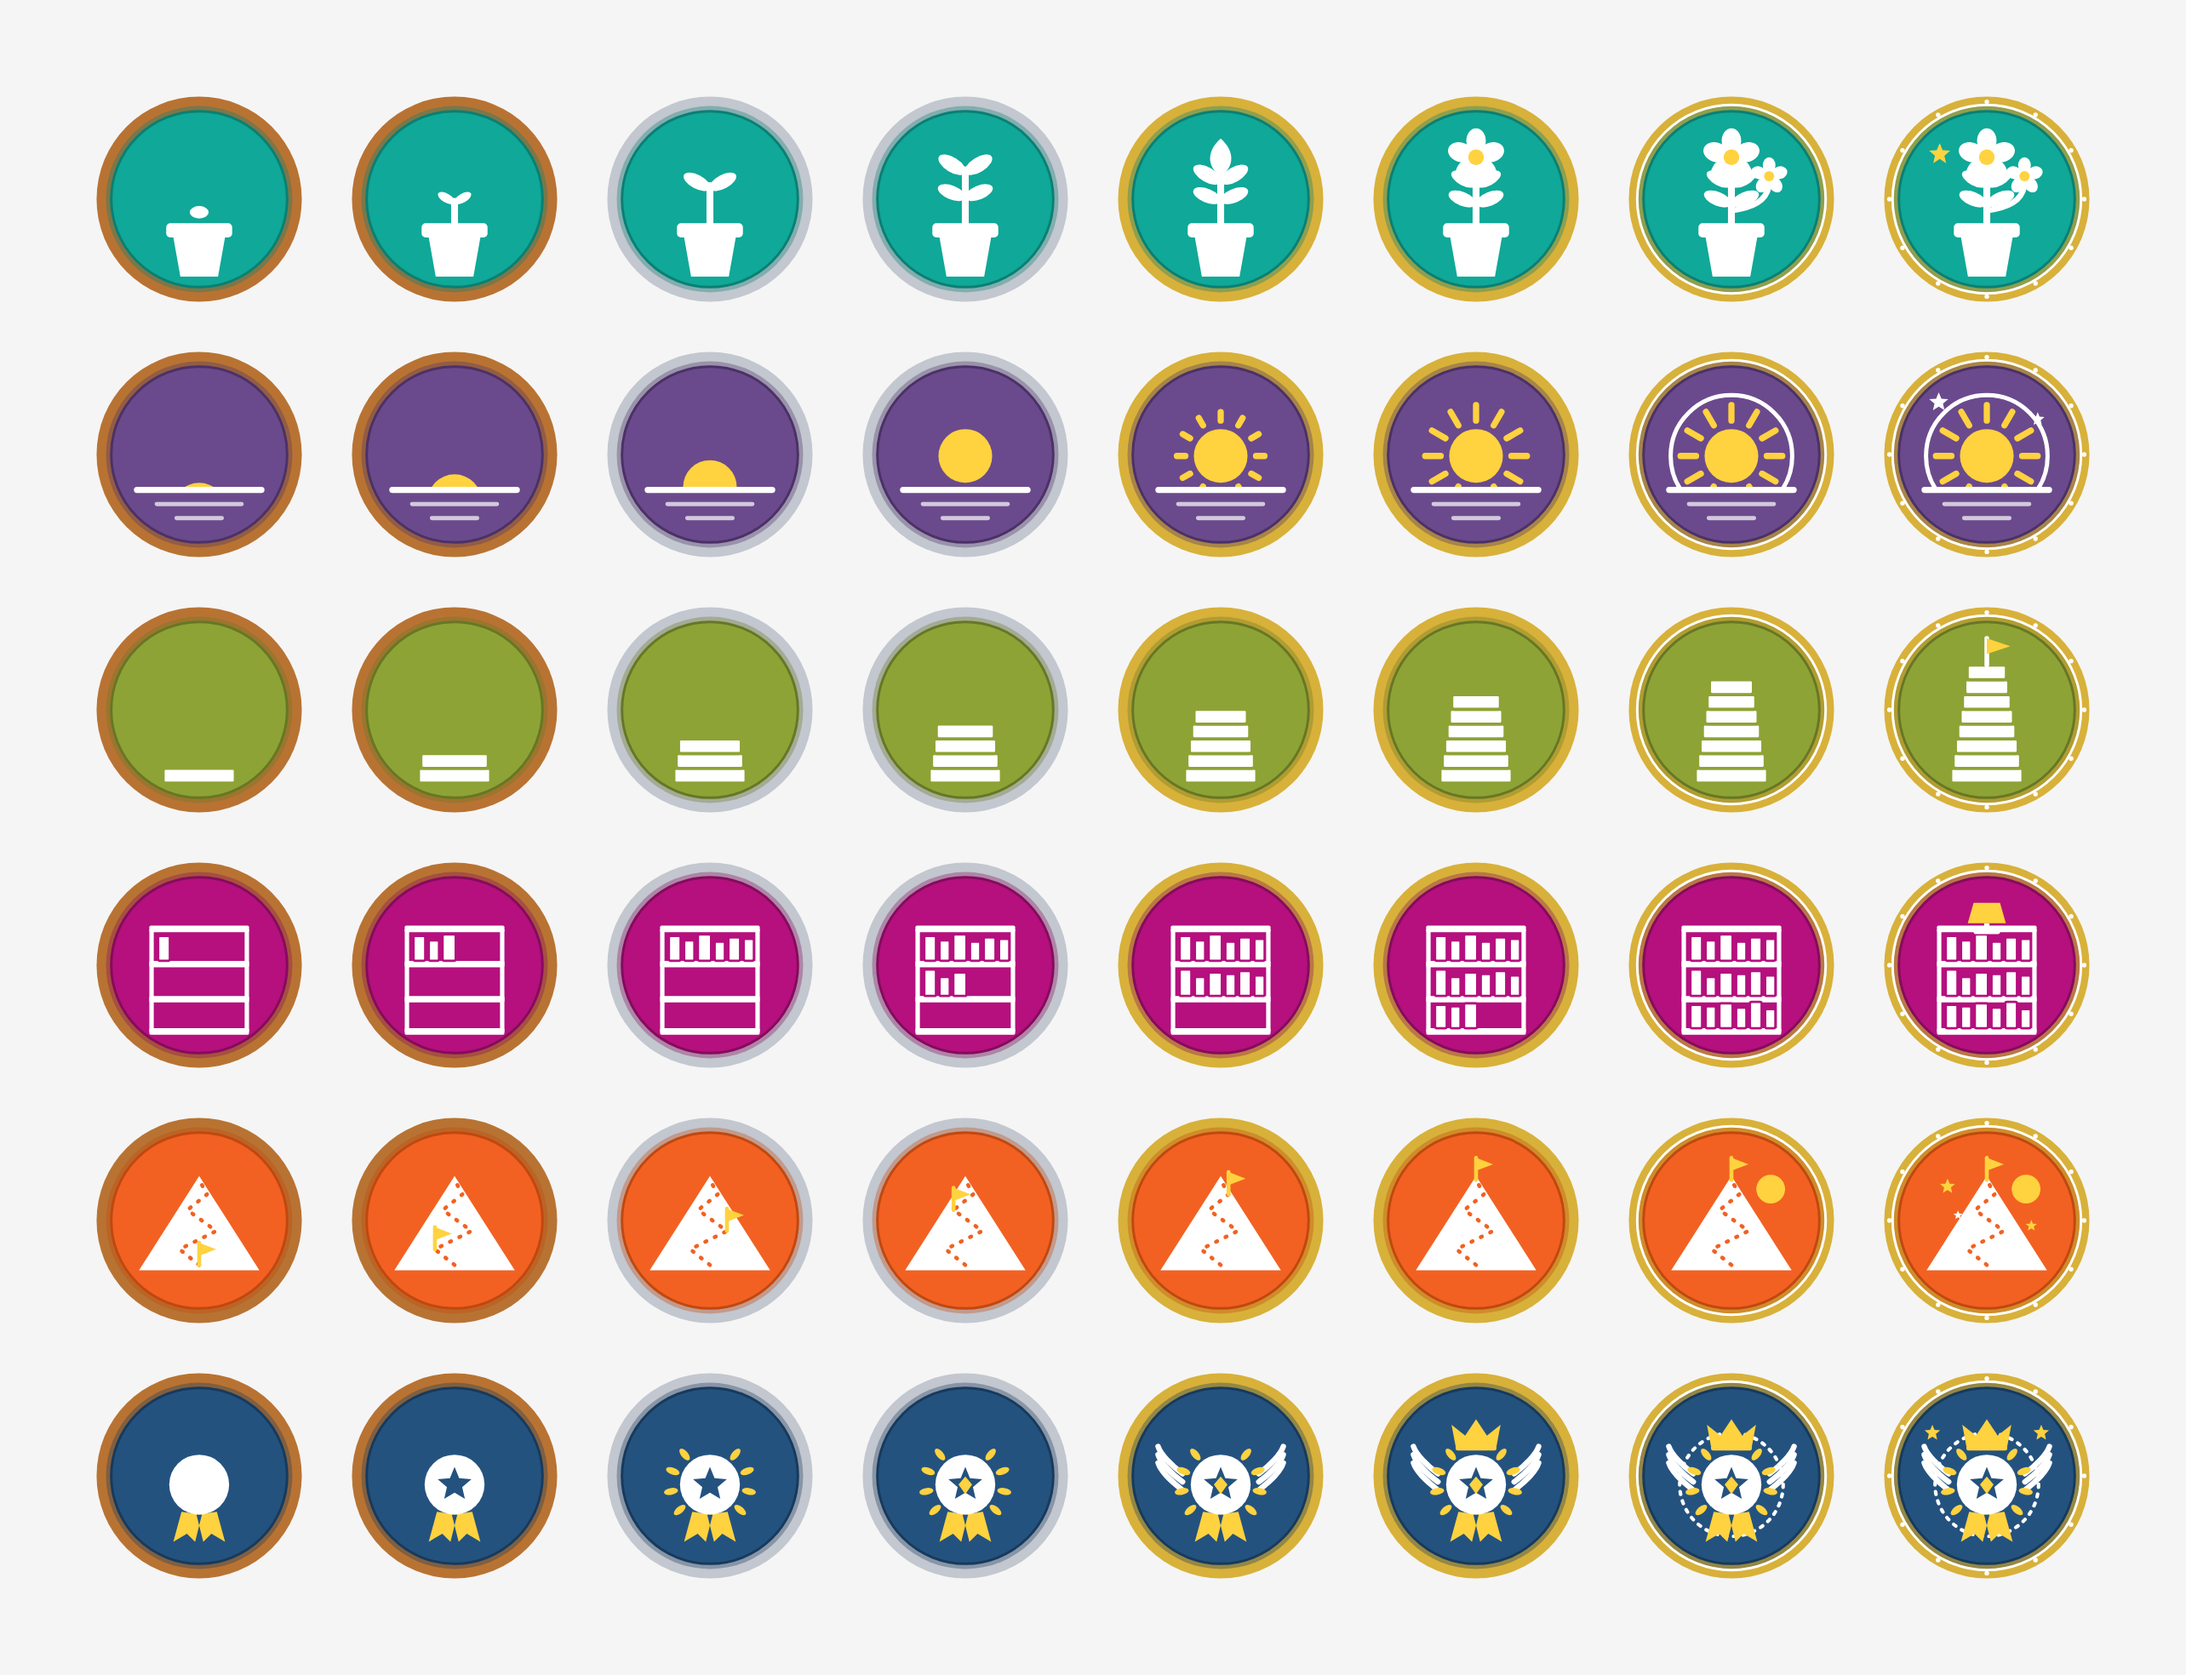
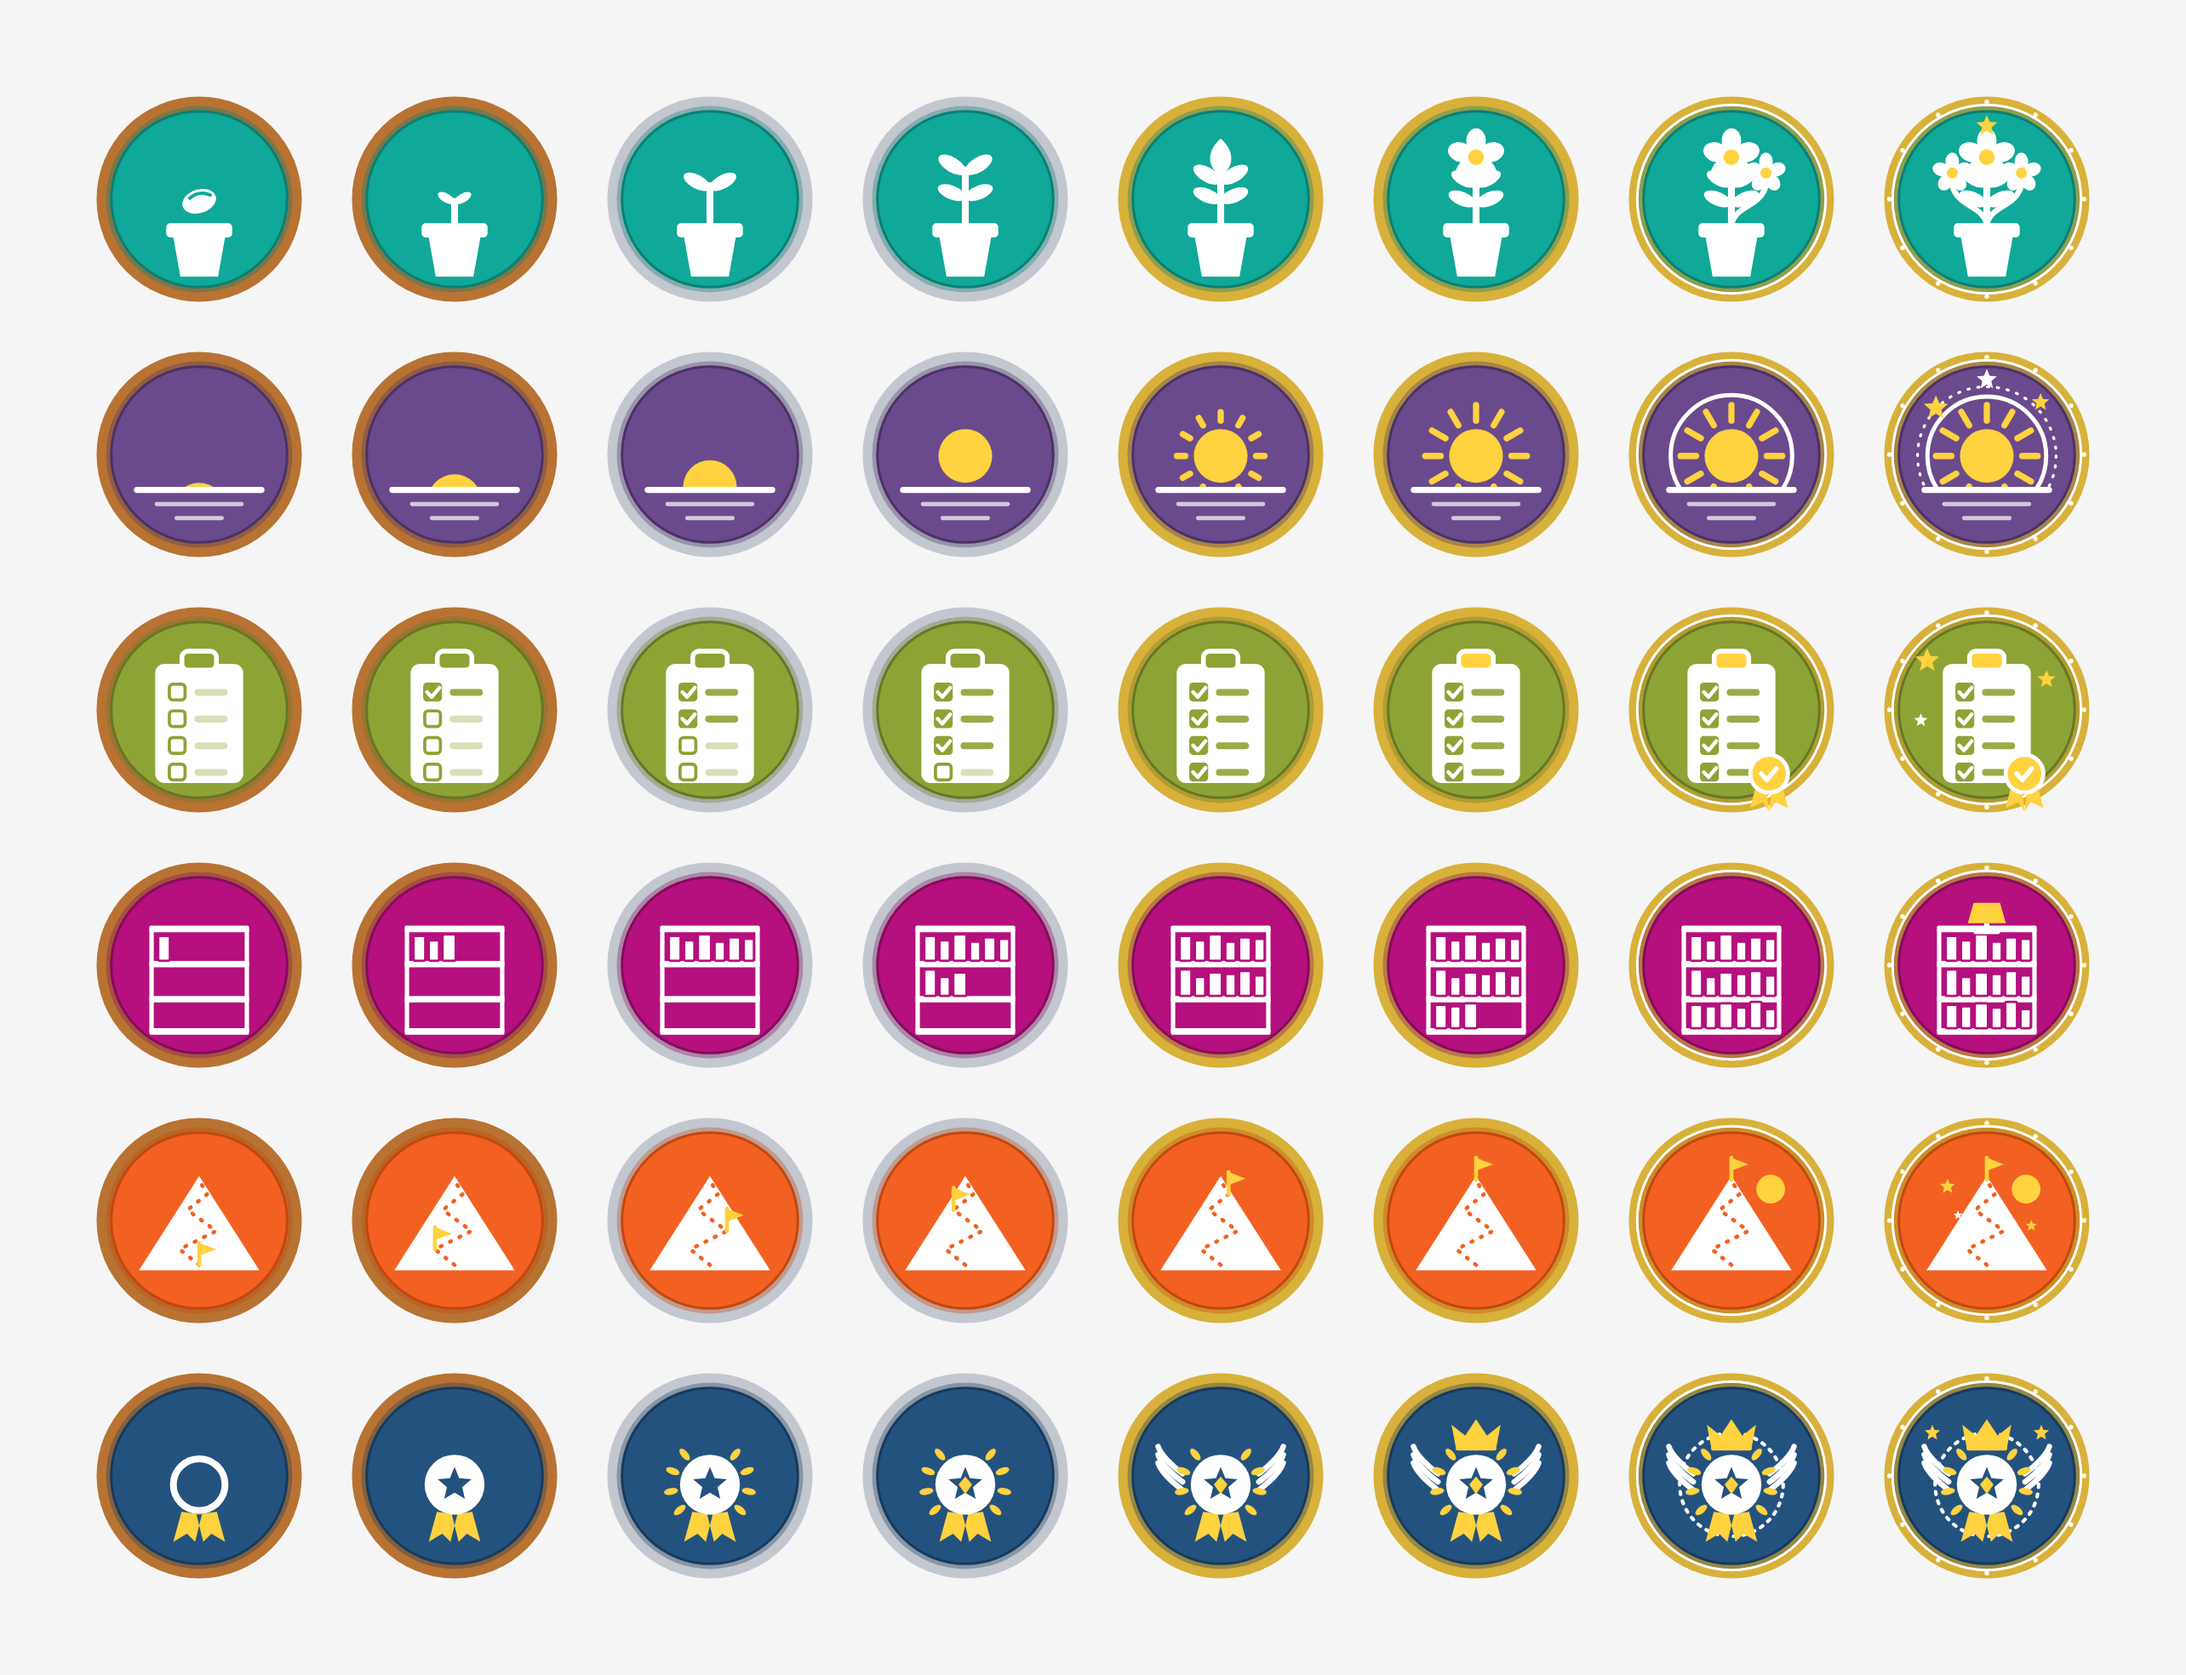
tools: flat badges revision (clipboard row, richer growth/sun/medal stages)
Claude-Session: https://claude.ai/code/session_01L5b88pmCpPwtZjihK8wpK9

diff --git a/tools/badge-sheet/flat48.py b/tools/badge-sheet/flat48.py
@@ -19,7 +19,7 @@ def g(n, D):
     def stem(top): return f'<path d="M0,10 V{top}" stroke="{W}" stroke-width="4.4" stroke-linecap="round"/>'
     def pair(y, s, up=-28):
         return leaf(0, y, up, s) + leaf(0, y, 180 - up, s)
-    if n == 1: return o + f'<ellipse cx="0" cy="3" rx="6" ry="4" fill="{W}"/>'
+    if n == 1: return o + f'<ellipse cx="0" cy="-4" rx="11" ry="7.5" fill="{W}" transform="rotate(-18 0 -4)"/><path d="M-6,-6 Q0,-11 7,-8" stroke="{D}" stroke-width="2.2" fill="none" stroke-linecap="round"/>'
     if n == 2: return o + stem(-4) + pair(-3, .55, -30)
     if n == 3: return o + stem(-14) + pair(-12, .85, -28)
     if n == 4: return o + stem(-24) + pair(-6, .85, -22) + pair(-22, .9, -32)
@@ -29,9 +29,10 @@ def g(n, D):
         return p + f'<circle cx="{cx}" cy="{cy}" r="{r*.5}" fill="{Y}"/>'
     base = o + stem(-22) + pair(-2, .85, -22) + pair(-14, .8, -28)
     if n == 6: return base + flower(0, -32, 10)
-    s7 = base + flower(0, -32, 10) + f'<path d="M0,2 C14,0 22,-4 24,-14" stroke="{W}" stroke-width="3.6" fill="none" stroke-linecap="round"/>' + flower(24, -20, 6.5)
-    if n == 7: return s7
-    return s7 + star(-30, -34, 7)
+    def side(sg, r=7):
+        return f'<path d="M0,10 C{sg*4},-2 {sg*18},0 {sg*22},-14" stroke="{W}" stroke-width="3.6" fill="none" stroke-linecap="round"/>' + flower(sg * 22, -22, r)
+    if n == 7: return base + flower(0, -32, 10) + side(1)
+    return base + flower(0, -32, 10) + side(1) + side(-1) + star(0, -52, 7)
 
 # ردیف ۲: خورشید و افق
 def f(n, D):
@@ -42,20 +43,26 @@ def f(n, D):
     if n >= 5:
         L = 31 if n == 5 else 36
         rays = ''.join(f'<path d="M0,-25 V-{L}" stroke="{Y}" stroke-width="4.4" stroke-linecap="round" transform="translate(0 {cy}) rotate({a})"/>' for a in range(-90, 91, 30)) if False else ''.join(f'<path d="M0,-25 V-{L}" stroke="{Y}" stroke-width="4.4" stroke-linecap="round" transform="translate(0 {cy}) rotate({a})"/>' for a in range(0, 360, 30))
-    ring = f'<circle cx="0" cy="{cy}" r="43" fill="none" stroke="{W}" stroke-width="3"/>' if n >= 7 else ''
+    ring = f'<circle cx="0" cy="{cy}" r="43" fill="none" stroke="{W}" stroke-width="3"/>' if n == 7 else (f'<circle cx="0" cy="{cy}" r="42" fill="none" stroke="{W}" stroke-width="3"/><circle cx="0" cy="{cy}" r="49" fill="none" stroke="{W}" stroke-width="2" stroke-dasharray="1 6" stroke-linecap="round"/>' if n == 8 else '')
     cid = 'hz'
     out = f'<clipPath id="{cid}"><rect x="-60" y="-60" width="120" height="{60+hor}"/></clipPath><g clip-path="url(#{cid})">{ring}{rays}{sun}</g><path d="M-44,{hor+2} H44" stroke="{W}" stroke-width="4.4" stroke-linecap="round"/><path d="M-30,{hor+12} H30 M-16,{hor+22} H16" stroke="{W}" stroke-width="3" stroke-linecap="round" opacity=".7"/>'
-    if n == 8: out += star(-34, -34, 7, W) + star(36, -22, 5, W)
+    if n == 8: out += star(-36, -30, 9, Y) + star(38, -34, 6.5, Y) + star(0, -50, 7.5, W)
     return out
 
-# ردیف ۳: برجِ بلوکها
+# ردیف ۳: کلیپبورد و کارهای تیکخورده
 def b(n, D):
-    o = ''; h = 9.4; y = 44
-    for k in range(n):
-        w = 46 - k * 3
-        y -= h
-        o += f'<rect x="{-w/2}" y="{y}" width="{w}" height="{h}" rx="1.6" fill="{W}" stroke="{D}" stroke-width="2"/>'
-    if n == 8: o += f'<path d="M0,{y} V{y-17}" stroke="{W}" stroke-width="3" stroke-linecap="round"/><path d="M0,{y-17} L15,{y-12} L0,{y-7}Z" fill="{Y}"/>'
+    o = f'<rect x="-28" y="-32" width="56" height="76" rx="6" fill="{W}"/><rect x="-11" y="-40" width="22" height="12" rx="4" fill="{Y if n >= 6 else D}" stroke="{W}" stroke-width="3"/>'
+    ticked = min(max(n - 1, 0), 4)
+    for k in range(4):
+        y = -14 + k * 17
+        if k < ticked:
+            o += f'<rect x="-20" y="{y-6}" width="12" height="12" rx="2.4" fill="{D}"/><path d="M-17.6,{y} l3,3.2 l5,-6" stroke="{W}" stroke-width="2.4" fill="none" stroke-linecap="round" stroke-linejoin="round"/>'
+        else:
+            o += f'<rect x="-19" y="{y-5}" width="10" height="10" rx="2.2" fill="none" stroke="{D}" stroke-width="2"/>'
+        o += f'<rect x="-3" y="{y-2}" width="21" height="4.4" rx="2.2" fill="{D}" opacity="{.9 if k < ticked else .35}"/>'
+    if n >= 7:
+        o += f'<g transform="translate(24 38)"><path d="M-8,6 L-12,22 L-4,18 L0,24 L2,8Z M8,6 L12,22 L4,18 L0,24 L-2,8Z" fill="{Y}"/><circle r="12" fill="{Y}" stroke="{W}" stroke-width="2.6"/><path d="M-5,0 l3.6,4 l6,-7.4" stroke="{W}" stroke-width="3" fill="none" stroke-linecap="round" stroke-linejoin="round"/></g>'
+    if n == 8: o += star(-38, -34, 8, Y) + star(38, -22, 6, Y) + star(-42, 4, 4.5, W)
     return o
 
 # ردیف ۴: قفسهی کتاب
@@ -92,7 +99,7 @@ def s(n, D):
     if n >= 5:
         for sg in (-1, 1):
             o += ''.join(f'<path d="M{sg*28},{cy+4-i*6} C{sg*36},{cy+2-i*6-4} {sg*44},{cy-i*6-10} {sg*46},{cy-i*6-16}" stroke="{W}" stroke-width="4" fill="none" stroke-linecap="round"/>' for i in range(3))
-    o += f'<circle cx="{cx}" cy="{cy}" r="22" fill="{W}"/>'
+    o += (f'<circle cx="{cx}" cy="{cy}" r="19" fill="none" stroke="{W}" stroke-width="5"/>' if n == 1 else f'<circle cx="{cx}" cy="{cy}" r="22" fill="{W}"/>')
     if n >= 3:
         o += ''.join(f'<ellipse cx="{sg*(27)*math.cos(math.radians(a))}" cy="{cy+27*math.sin(math.radians(a))}" rx="5" ry="2.6" fill="{W}" transform="rotate({sg*(a+90)*1 if sg==1 else -(a+90)+180} {sg*(27)*math.cos(math.radians(a))} {cy+27*math.sin(math.radians(a))})"/>' for sg in (-1, 1) for a in (60, 20, -20, -60)) if False else ''
     if n >= 3:
